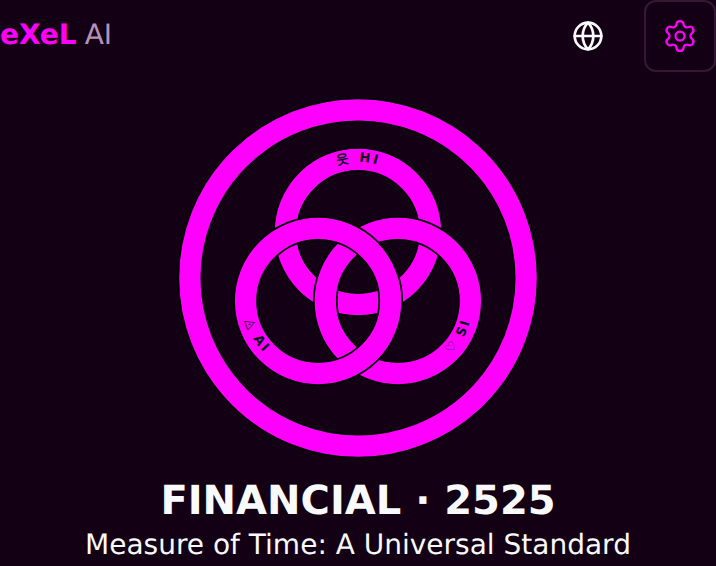
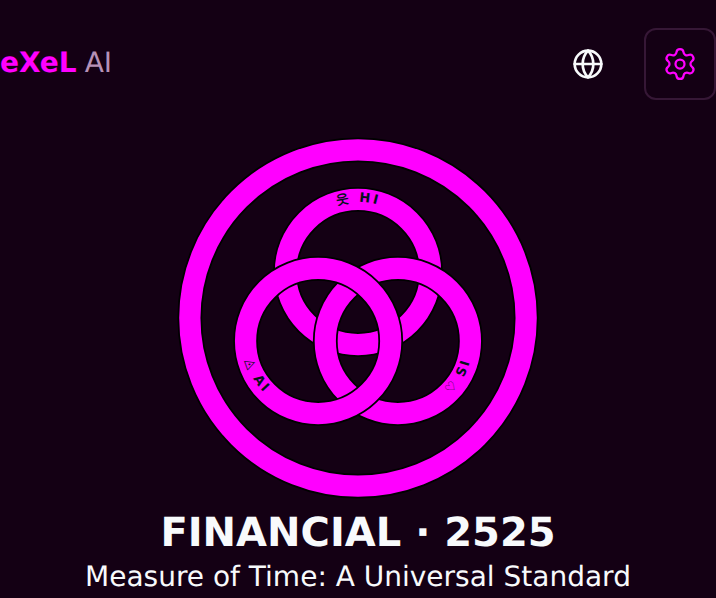
feat(Financial-2525): v.000_r.042 — mini Trinity inside the top bar (header 159 → 109 px); + Transaction left of the gear, Accrual Rate right of Available (addendum 81)
- The mini Trinity sits centred in a min-h 64 px top bar, so it adds no row; a tap grows it to 190 px below the bar with its labels.
- Accrual card line 1: ACCRUAL UNITS · + Transaction · gear; line 2: Available left, Accrual Rate right.
- financial-surface gates re-pointed; record r.042 why/FD-59 include addendum 81; handoff hash follows addendum 81.
- Pre-push review on the built page: PUSH.

Claude-Session: https://claude.ai/code/session_01GKmyWeWf1CfBrFKiFUHzGf

diff --git a/frontend/components/financial-2525/command-ux1.tsx b/frontend/components/financial-2525/command-ux1.tsx
@@ -291,23 +291,28 @@ export function FinancialCommandUX1() {
       <header data-fin-header className="mb-3 text-center">   {/* r.042 (addendum 76, his third request): the header is smaller — focus is the outcome */}
         {/* r.034 (addendum 67): "eXeL AI" upper left takes the person back to /main; the eXeL Polling Settings (the colour selector)
             and the globe upper right. Every accent on this surface follows the selected colour (Tailwind `primary` = the theme). */}
-        <div data-fin-topbar className="mb-2 flex items-center justify-between">
+        <div data-fin-topbar className="relative flex min-h-[64px] items-center justify-between">
           <a href="/main/" data-fin-home aria-label={t("fin.home")} title={t("fin.home")} className="inline-flex min-h-[36px] items-center gap-1 text-sm">
             <ExelWordmark exelClass="font-bold text-primary" aiClass="font-light text-muted-foreground" />
           </a>
+          {/* r.042 (addendum 78 + the AsM pre-push review "the header is not visibly smaller"): the mini Trinity sits IN the top bar,
+              centred between eXeL AI and the globe — one-third size, no text, the selected colour; a tap grows it in place below the bar */}
+          {!trinityBig && (
+            <button type="button" data-fin-trinity aria-expanded={trinityBig} aria-label={t("fin.trinity_aria")} title={t("fin.trinity_aria")} onClick={() => setTrinityBig(true)} className="absolute left-1/2 top-1/2 -translate-x-1/2 -translate-y-1/2 rounded-full">
+              <SoITrinity labels={["", "", ""]} color={hue.bright} colors={[hue.bright, hue.bright, hue.bright]} textColor={hue.ink} size={63} />
+            </button>
+          )}
           <div className="flex items-center gap-2">
             {/* r.042 (addendum 76 "move globe first and settings to right") */}
             <SoiGlobe />
             <button type="button" data-fin-settings onClick={() => setSettingsOpen(true)} aria-label={t("fin.settings")} title={t("fin.settings")} className="flex h-9 w-9 items-center justify-center rounded-md border border-border text-primary"><Settings size={18} strokeWidth={1.5} aria-hidden /></button>
           </div>
         </div>
-        {/* r.042 (addendum 78): the Trinity logo replaces ◬ ♡ 웃 — one-third of its full size, no text, the selected colour; a tap
-            grows it in place to full size with its labels (his answer "Grows in place at the top"); a second tap shrinks it */}
-        <button type="button" data-fin-trinity aria-expanded={trinityBig} aria-label={t("fin.trinity_aria")} title={t("fin.trinity_aria")} onClick={() => setTrinityBig((v) => !v)} className="mx-auto mb-1 block rounded-full">
-          {trinityBig
-            ? <SoITrinity labels={[t("fin.wheel.hi"), t("fin.wheel.si"), t("fin.wheel.ai")]} color={hue.bright} colors={[hue.bright, hue.bright, hue.bright]} textColor={hue.ink} size={190} />
-            : <SoITrinity labels={["", "", ""]} color={hue.bright} colors={[hue.bright, hue.bright, hue.bright]} textColor={hue.ink} size={63} />}
-        </button>
+        {trinityBig && (
+          <button type="button" data-fin-trinity aria-expanded={trinityBig} aria-label={t("fin.trinity_aria")} title={t("fin.trinity_aria")} onClick={() => setTrinityBig(false)} className="mx-auto block rounded-full">
+            <SoITrinity labels={[t("fin.wheel.hi"), t("fin.wheel.si"), t("fin.wheel.ai")]} color={hue.bright} colors={[hue.bright, hue.bright, hue.bright]} textColor={hue.ink} size={190} />
+          </button>
+        )}
         <h1 className="text-xl font-semibold leading-tight">FINANCIAL · 2525</h1>
         {/* no version line here — it is at the bottom (r.028); ONE line, "Measure of Time: A Universal Standard" (r.039, addendum 74) */}
         <p data-fin-subtitle className="text-sm text-foreground">{t("fin.title_l1")}</p>
@@ -324,12 +329,23 @@ export function FinancialCommandUX1() {
         <div data-fin-balance className="-mx-2 mb-4 rounded-lg border border-primary/40 bg-primary/5 p-3 text-sm sm:mx-0">
           {/* r.033 (addendum 64 "Accrual field needs to be left to settings button on top line"): title left; the $/min figure and its
               unit selector on the SAME line, immediately left of the gear */}
+          {/* r.042 (addendum 81 "Move transaction left of settings and move accrual rate to right of Available · swap these two"):
+              line 1 = ACCRUAL UNITS · + Transaction (the gear's height) · gear; line 2 = Available (left) · Accrual Rate (right) */}
           <div data-fin-accrual-top className="flex items-center justify-between gap-2">
             <div className={LABEL}>{t("fin.accrual_units")}</div>
             <div className="flex shrink-0 items-center gap-2">
-              {bal.ratePerMinCents > 0 && (
+              {owner && <button type="button" data-fin-tx-open aria-expanded={formOpen} onClick={openForm} className="h-8 shrink-0 rounded-md bg-primary px-3 text-xs font-medium text-primary-foreground">{t("fin.tx_open")}</button>}
+              <button type="button" data-fin-accrual-gear aria-expanded={accrualGear} aria-label={t("fin.settings")} title={t("fin.settings")} onClick={() => setAccrualGear((g) => !g)} className={`flex h-8 w-9 items-center justify-center rounded-md border border-border ${accrualGear ? "text-primary" : "text-muted-foreground"}`}><Settings size={16} strokeWidth={1.5} aria-hidden /></button>
+            </div>
+          </div>
+          <div className="mt-2 flex items-end justify-between gap-3">
+            <div data-fin-current className="min-w-0">
+              <div className="text-xs text-muted-foreground">{t("fin.available")}:</div>
+              <div className="font-mono text-2xl tabular-nums text-primary" data-testid="fin-clock" aria-label={t("fin.available")}>{usd(bal.availableCents)}</div>
+            </div>
+            {bal.ratePerMinCents > 0 && (
                 /* r.035 (addendum 68): the words "Accrual Rate" directly above the figure and its unit selector */
-                <div data-fin-rate-block className="flex flex-col items-start">
+                <div data-fin-rate-block className="flex flex-col items-end">
                   <span data-fin-rate-label className="text-xs text-muted-foreground">{t("fin.accrual_rate")}</span>
                   <div data-fin-rate-row className="flex items-center gap-1 text-primary">
                     <span data-fin-rate className="font-mono tabular-nums">{rateUnit === "day" ? usd(Math.round(rateIn(rateUnit))) : usd4(rateIn(rateUnit))}</span>
@@ -339,17 +355,6 @@ export function FinancialCommandUX1() {
                   </div>
                 </div>
               )}
-              <button type="button" data-fin-accrual-gear aria-expanded={accrualGear} aria-label={t("fin.settings")} title={t("fin.settings")} onClick={() => setAccrualGear((g) => !g)} className={`flex h-8 w-9 items-center justify-center rounded-md border border-border ${accrualGear ? "text-primary" : "text-muted-foreground"}`}><Settings size={16} strokeWidth={1.5} aria-hidden /></button>
-            </div>
-          </div>
-          {/* r.037 (addendum 70 "place smaller transaction button in box with accrual units. remove big pink transaction button"): the one
-              door, compact, on the Available row; the entry opens directly below this card */}
-          <div className="mt-2 flex items-end justify-between gap-3">
-            <div data-fin-current className="min-w-0">
-              <div className="text-xs text-muted-foreground">{t("fin.available")}:</div>
-              <div className="font-mono text-2xl tabular-nums text-primary" data-testid="fin-clock" aria-label={t("fin.available")}>{usd(bal.availableCents)}</div>
-            </div>
-            {owner && <button type="button" data-fin-tx-open aria-expanded={formOpen} onClick={openForm} className="min-h-[36px] shrink-0 rounded-md bg-primary px-3 text-xs font-medium text-primary-foreground">{t("fin.tx_open")}</button>}
           </div>
           {/* r.029 (addendum 60 "doesn't this seem duplicative?"): Available is the big figure above, so the grid is three boxes —
               In Escrow · Released · Spent; what each one means is in the gear */}

diff --git a/frontend/lib/financial-2525/domain.gen.ts b/frontend/lib/financial-2525/domain.gen.ts
@@ -35,7 +35,7 @@ export const FINANCIAL_DOMAIN = {
   "stamp": "v.000_r.042",
   "stampPrefix": "eXeL v0.001",
   "handoff": "docs/asks/2026-09-30_financial_2525_mot_financial_system.md",
[2 lines of base64/hex data omitted]
   "handoffHistory": [
    {
[1 lines of base64/hex data omitted]
@@ -261,6 +261,11 @@ export const FINANCIAL_DOMAIN = {
[1 lines of base64/hex data omitted]
     "date": "2026-10-01",
     "note": "+ addenda 78–80 (Trinity logo; AsM before push; his three answers)"
+   },
+   {
[1 lines of base64/hex data omitted]
+    "date": "2026-10-01",
+    "note": "+ addendum 81 (swap + Transaction and Accrual Rate)"
    }
   ],
   "ledger": "docs/traceability/financial-2525.ledger.json",
@@ -607,8 +612,8 @@ export const FINANCIAL_DOMAIN = {
    "revision": "0.042",
    "date": "2026-10-01",
    "kind": "decision",
-   "why": "A smaller header with the Trinity logo. Addendum 78: \"replace ◬ ♡ 웃 with trinity logo (without any text) that is same color as selected color … smaller version must be 1/3rd size of existing … when clicked, expand Trinity to current size with text exactly like image 2\"; his answer \"Grows in place at the top\". Addendum 76: \"move globe first and settings to right\"; \"the top takes up too much space; this is my third request\"; \"cut Trinity icon way below\". The header shows a 63 px Trinity (one-third of 190) in the selected colour with no text; a tap grows it in place to 190 px with its labels, a second tap shrinks it; the globe comes before the settings gear; the header is smaller (top padding, title and subtitle sizes); the wheel at the bottom of the page is gone.",
-   "commit": "335d1ba",
+   "why": "A smaller header with the Trinity logo. Addendum 78: \"replace ◬ ♡ 웃 with trinity logo (without any text) that is same color as selected color … smaller version must be 1/3rd size of existing … when clicked, expand Trinity to current size with text exactly like image 2\"; his answer \"Grows in place at the top\". Addendum 76: \"move globe first and settings to right\"; \"the top takes up too much space; this is my third request\"; \"cut Trinity icon way below\". The header shows a 63 px Trinity (one-third of 190) in the selected colour with no text; a tap grows it in place to 190 px with its labels, a second tap shrinks it; the globe comes before the settings gear; the header is smaller (top padding, title and subtitle sizes); the wheel at the bottom of the page is gone. Addendum 81: \"Move transaction left of settings and move accrual rate to right of Available · swap these two\": the Accrual Units card reads ACCRUAL UNITS · + Transaction (the gear’s height) · gear on line 1, and Available (left) · Accrual Rate (right) on line 2.",
+   "commit": "985edda",
    "shipped": "PENDING"
   }
  ],
@@ -2040,9 +2045,9 @@ export const FINANCIAL_DOMAIN = {
   },
   {
    "id": "FD-59",
-   "decision": "The header carries the Trinity logo at one-third size (no text, the selected colour) in place of ◬ ♡ 웃; a tap grows it in place to full size with its labels. Globe first, settings second. The header is smaller; no Trinity at the bottom of the page.",
+   "decision": "The header carries the Trinity logo at one-third size (no text, the selected colour) in place of ◬ ♡ 웃; a tap grows it in place to full size with its labels. Globe first, settings second. The header is smaller; no Trinity at the bottom of the page. Accrual Units: line 1 = ACCRUAL UNITS · + Transaction · gear; line 2 = Available · Accrual Rate.",
    "status": "OPERATOR",
-   "basis": "addenda 76, 78, 80 (verbatim)"
+   "basis": "addenda 76, 78, 80, 81 (verbatim)"
   }
  ],
  "reviews": [

diff --git a/docs/financial-2525/CRS_FINANCIAL-2525.md b/docs/financial-2525/CRS_FINANCIAL-2525.md
@@ -5,7 +5,7 @@
 
 > A personal pilot on the operator's own figures. Money on this surface is a RECORD of what a person typed, never advice, never a bank; the cloud half is best-effort and says so.
 
-Handoff: `docs/asks/2026-09-30_financial_2525_mot_financial_system.md` `sha256 27a7a74281377118b4df0d90c0d60fd04c95ddd0e5ea59e4cbf65bbeddc0cf90`
+Handoff: `docs/asks/2026-09-30_financial_2525_mot_financial_system.md` `sha256 1c79773cfe7bd94ef49bd60422e50445acd203743e3466966cc6302e1f14f789`
 
 Id law (docs/vision-2525/CRS-GOVERNANCE-PLAN.md): `FIN-##.##`, two digits never letters; parents are permanent; sub-ids append only; a changed requirement is **superseded**, never rewritten.
 
@@ -871,5 +871,5 @@ Id law (docs/vision-2525/CRS-GOVERNANCE-PLAN.md): `FIN-##.##`, two digits never 
 | 0.039 | 2026-10-01 | decision | `a17b9ca` | One header line and "Standard Month". Addendum 74: "Change top header to single line: Measure of Time: A Universal Standard · Say: Standard Month (no extra text)." The header subtitle is one line; the budget unit that was "per calendar month (October · 31 days)" reads "Standard Month" and still converts by the real length of the month we are in. |
 | 0.040 | 2026-10-01 | decision | `87e37c5` | One line per budget entry. Addendum 75: "try reducing each entry on line (maybe make … or scroll to see rest of text) if you cant reduce text · for instance personal fitness should be fitness." Every budget line on the Personal budget table shows a short name on one row (46 short names, e.g. Mental Health / Physical Fitness → Fitness, Income / Wages (take-home) → Wages); a name that still overflows ends in …; the full name is the row title (hold / hover) and stays in the pickers and the record. |
 | 0.041 | 2026-10-01 | decision | `2230e15` | TRANSACTION RECORD and REAL-TIME FINANCIALS. Addenda 76–77: "THE RECORD · CHAIN VERIFIED · 3 becomes TRANSACTION RECORD" (asked three times) and "call this: REAL-TIME FINANCIALS". The record header reads Transaction Record (a broken chain is still said beside it); the chart header reads Real-Time Financials, the elapsed time staying in the line under it. |
-| 0.042 | 2026-10-01 | decision | `335d1ba` | A smaller header with the Trinity logo. Addendum 78: "replace ◬ ♡ 웃 with trinity logo (without any text) that is same color as selected color … smaller version must be 1/3rd size of existing … when clicked, expand Trinity to current size with text exactly like image 2"; his answer "Grows in place at the top". Addendum 76: "move globe first and settings to right"; "the top takes up too much space; this is my third request"; "cut Trinity icon way below". The header shows a 63 px Trinity (one-third of 190) in the selected colour with no text; a tap grows it in place to 190 px with its labels, a second tap shrinks it; the globe comes before the settings gear; the header is smaller (top padding, title and subtitle sizes); the wheel at the bottom of the page is gone. |
+| 0.042 | 2026-10-01 | decision | `985edda` | A smaller header with the Trinity logo. Addendum 78: "replace ◬ ♡ 웃 with trinity logo (without any text) that is same color as selected color … smaller version must be 1/3rd size of existing … when clicked, expand Trinity to current size with text exactly like image 2"; his answer "Grows in place at the top". Addendum 76: "move globe first and settings to right"; "the top takes up too much space; this is my third request"; "cut Trinity icon way below". The header shows a 63 px Trinity (one-third of 190) in the selected colour with no text; a tap grows it in place to 190 px with its labels, a second tap shrinks it; the globe comes before the settings gear; the header is smaller (top padding, title and subtitle sizes); the wheel at the bottom of the page is gone. Addendum 81: "Move transaction left of settings and move accrual rate to right of Available · swap these two": the Accrual Units card reads ACCRUAL UNITS · + Transaction (the gear’s height) · gear on line 1, and Available (left) · Accrual Rate (right) on line 2. |
 

diff --git a/docs/financial-2525/DECISIONS_REGISTER.md b/docs/financial-2525/DECISIONS_REGISTER.md
@@ -67,5 +67,5 @@ Every decision below is on the record with its basis. **DECLARED** = adopted by 
 | FD-56 | The header subtitle is one line, "Measure of Time: A Universal Standard"; the calendar-month budget unit reads "Standard Month", nothing beside it. | **OPERATOR** | addendum 74 (verbatim) |
 | FD-57 | Each budget line is one row: a short name (≤16 characters) on the table, … if it overflows, the full name as the row title and in the pickers and the record. | **OPERATOR** | addendum 75 (verbatim); the short names are mine to check with him |
 | FD-58 | The record header reads TRANSACTION RECORD; the chart header reads REAL-TIME FINANCIALS. | **OPERATOR** | addenda 76–77 (verbatim) |
-| FD-59 | The header carries the Trinity logo at one-third size (no text, the selected colour) in place of ◬ ♡ 웃; a tap grows it in place to full size with its labels. Globe first, settings second. The header is smaller; no Trinity at the bottom of the page. | **OPERATOR** | addenda 76, 78, 80 (verbatim) |
+| FD-59 | The header carries the Trinity logo at one-third size (no text, the selected colour) in place of ◬ ♡ 웃; a tap grows it in place to full size with its labels. Globe first, settings second. The header is smaller; no Trinity at the bottom of the page. Accrual Units: line 1 = ACCRUAL UNITS · + Transaction · gear; line 2 = Available · Accrual Rate. | **OPERATOR** | addenda 76, 78, 80, 81 (verbatim) |
 
